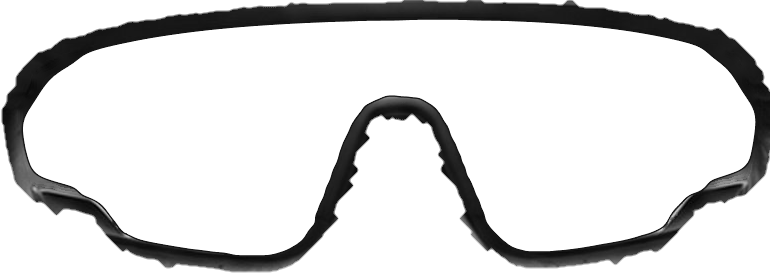
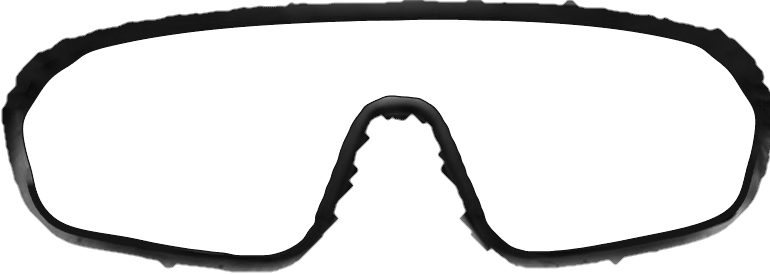
v1.548: The grey corner pads are gone from her visor: the film fills each corner, inside the frame's rim

Changed region(s): [[0.8104, 0.5839, 0.9974, 0.9343], [0.0, 0.6131, 0.187, 0.9343]]

diff --git a/manekas-picks.html b/manekas-picks.html
@@ -136,7 +136,10 @@ input,button,select,textarea{font-family:inherit;font-size:inherit;color:inherit
    under the frame (visor-mask.png), and the frame is laid back over it
    (visor-frame.png, the photograph's own frame with a fine dark lip on the
    curve), so the film ends on that clean line and nowhere else. */
-.mp-lens{position:absolute;z-index:2;left:35.1708%;top:30.4780%;width:29.8913%;height:12.9673%;overflow:hidden;isolation:isolate;opacity:0;transition:opacity .5s ease;
+.mp-lens{position:absolute;z-index:2;left:35.1708%;top:30.4780%;width:29.8913%;height:12.9673%;opacity:0;transition:opacity .5s ease}
+/* the glass: the film and its layers, through the film's mask; the frame
+   is its sibling in the same box, so the two land on the same pixels */
+.mp-lens__glass{position:absolute;inset:0;overflow:hidden;isolation:isolate;
   -webkit-mask-image:url("media/picks/visor-mask.png");mask-image:url("media/picks/visor-mask.png");
   -webkit-mask-size:100% 100%;mask-size:100% 100%;-webkit-mask-repeat:no-repeat;mask-repeat:no-repeat}
 .mp-room.has-still .mp-lens,.mp-room.is-playing .mp-lens{opacity:1}
@@ -155,8 +158,7 @@ input,button,select,textarea{font-family:inherit;font-size:inherit;color:inherit
 .mp-lens__shine{display:block;mix-blend-mode:screen}
 /* the frame, laid back over the film and the glass's rim, outside the
    film's mask: the film ends on its drawn edge, and no amber is left at it */
-.mp-frame{position:absolute;z-index:3;left:35.1708%;top:30.4780%;width:29.8913%;height:12.9673%;display:block;pointer-events:none;opacity:0;transition:opacity .5s ease}
-.mp-room.has-still .mp-frame,.mp-room.is-playing .mp-frame{opacity:1}
+.mp-lens__frame{position:absolute;inset:0;width:100%;height:100%;display:block;pointer-events:none}
 .mp-lens iframe{display:block;width:100%;height:100%;border:0;pointer-events:none}
 .mp-lensbtn{position:absolute;z-index:4;left:35.1708%;top:30.4780%;width:29.8913%;height:12.9673%;padding:0;border:0;background:transparent;border-radius:30%;cursor:pointer}
 .mp-lensbtn:focus-visible{outline:2px solid var(--ink);outline-offset:6px}
@@ -544,13 +546,15 @@ if (root.document && root.document.head) apply(read());
            bridge or the corner pads (owner, 10 Nov 2026: "the borders are
            bleeding", "draw perfectly clean boundaries"). -->
       <div class="mp-lens" id="mpLens">
-        <img class="mp-lens__still" alt="" data-lens-still>
-        <div class="mp-lens__film" id="mpFilm"></div>
-        <span class="mp-lens__tone" aria-hidden="true"></span>
-        <span class="mp-lens__grille" aria-hidden="true"></span>
-        <img class="mp-lens__shine" src="media/picks/visor-shine.png" alt="">
+        <div class="mp-lens__glass">
+          <img class="mp-lens__still" alt="" data-lens-still>
+          <div class="mp-lens__film" id="mpFilm"></div>
+          <span class="mp-lens__tone" aria-hidden="true"></span>
+          <span class="mp-lens__grille" aria-hidden="true"></span>
+          <img class="mp-lens__shine" src="media/picks/visor-shine.png" alt="">
+        </div>
+        <img class="mp-lens__frame" src="media/picks/visor-frame.png" alt="">
       </div>
-      <img class="mp-frame" src="media/picks/visor-frame.png" alt="" aria-hidden="true">
       <button class="mp-lensbtn" id="mpLensBtn" type="button" aria-label="Play the trailer of Test Subject V in her glasses"></button>
     </div>
   </figure>

diff --git a/test/manekas-picks.test.js b/test/manekas-picks.test.js
@@ -110,7 +110,7 @@ test('her photograph in the amber visor, whole, and the visor filled with the fi
   assert.match(html, /\.mp-room\{position:relative;width:100%;aspect-ratio:2576\/2113;/, 'the photograph at its own shape');
   const lens = doc.querySelector('#mpLens.mp-lens');
   for (const part of ['.mp-lens__still', '.mp-lens__film', '.mp-lens__tone', '.mp-lens__grille', '.mp-lens__shine']) assert.ok(lens.querySelector(part), part);
-  assert.match(html, /\.mp-lens\{[^}]*mask-image:url\("media\/picks\/visor-mask\.png"\)/, 'masked to the amber glass');
+  assert.match(html, /\.mp-lens__glass\{[^}]*mask-image:url\("media\/picks\/visor-mask\.png"\)/, 'masked to the glass');
   for (const f of ['visor-mask.png', 'visor-shine.png', 'visor-frame.png', 'portrait-visor.jpg']) assert.ok(fs.existsSync(path.join(ROOT, 'media/picks', f)), f);
   /* the visor box, in percent of the photograph: 906 to 1676 across, 644 to 918 down */
   const pct = (re) => Number(re.exec(html)[1]) / 100;
@@ -123,16 +123,13 @@ test('her photograph in the amber visor, whole, and the visor filled with the fi
     assert.equal(png.readUInt32BE(16), 770, f);
     assert.equal(png.readUInt32BE(20), 274, f);
   }
-  /* the frame laid back over the film, outside the film's mask and on the
-     same box, so the film ends on its drawn edge and no amber is left at it */
-  const frame = lens.nextElementSibling;
-  assert.equal(frame.className, 'mp-frame');
+  /* the frame laid back over the film: in the same box, outside the film's
+     mask, last, so the film ends on its drawn edge and no amber is left at it */
+  const frame = lens.lastElementChild;
+  assert.equal(frame.className, 'mp-lens__frame');
   assert.equal(frame.getAttribute('src'), 'media/picks/visor-frame.png');
-  for (const k of ['left', 'top', 'width', 'height']) {
-    assert.equal(new RegExp(`\\.mp-frame\\{[^}]*${k}:([\\d.]+)%`).exec(html)[1], new RegExp(`\\.mp-lens\\{[^}]*${k}:([\\d.]+)%`).exec(html)[1], k);
-  }
-  assert.match(html, /\.mp-frame\{[^}]*z-index:3;/);
-  assert.match(html, /\.mp-room\.has-still \.mp-frame,\.mp-room\.is-playing \.mp-frame\{opacity:1\}/);
+  assert.ok(lens.querySelector('.mp-lens__glass > .mp-lens__film'), 'the film is under the mask');
+  assert.ok(!frame.closest('.mp-lens__glass'), 'the frame is not');
   assert.match(read('scripts/build-visor-mask.py'), /assert not \(through\[~shadowed\] > 0\)\.any\(\), 'the film shows on the frame'/);
   /* the film covers the visor: 16:9 as wide as the box, centred down it */
   const filmH = pct(/\.mp-lens__film,\.mp-lens__still\{[^}]*height:([\d.]+)%/) * box.h;

diff --git a/index.html b/index.html
@@ -2,7 +2,7 @@
 <html lang="en" data-pfa-tabs>
 <head>
 <meta charset="utf-8">
-<meta name="pfa-build" content="v1.547">
+<meta name="pfa-build" content="v1.548">
 <title>People for Animals | India’s largest animal welfare organisation</title>
 <meta name="description" content="Report cruelty, find your nearest unit, read what the law actually says, or give. People for Animals turns moments of crisis into second chances for animals across the country.">
 <meta name="viewport" content="width=device-width, initial-scale=1, viewport-fit=cover">

diff --git a/scripts/build-visor-mask.py b/scripts/build-visor-mask.py
@@ -12,6 +12,11 @@ is no longer the mask's; it is the frame's own, as it is in the photograph:
      glass alone is amber: red well above blue, even where the frame's shadow
      makes it nearly black), kept to its one large piece with its holes filled,
      and its outline smoothed so it runs as the frame's inner edge does.
+  1b. The grey pads at the visor's lower outer corners are taken out ("this
+     section looks odd.. either remove that piece or fill that with video in
+     a seamless way"): the glass runs on into each corner, the frame's dark
+     rim is drawn round it, as thick as the bottom rim and carrying on into
+     it, and what was left of each pad's tip is healed into the skin.
   2. Then "draw perfectly clean boundaries and work from there": the outline
      becomes one closed curve, smoothed as a line (strongly along the top and
      round the ends, lightly round the nose bridge and the corner pads) and
@@ -100,7 +105,33 @@ inside &= ((xs_ >= lo[:, None] - 0.25) | ~ends_l) & ((xs_ <= hi[:, None] + 0.25)
 inside = nd.binary_opening(inside, iterations=1)
 lab, n = nd.label(inside)
 inside = lab == (np.argmax(nd.sum(inside, lab, range(1, n + 1))) + 1)
-# 2. the boundary, drawn: one closed curve along the frame's inner edge,
+# 1b. the corner pads taken out (owner, 10 Nov 2026: "this section looks
+#     odd.. either remove that piece or fill that with video in a seamless
+#     way"): each grey pad at the visor's lower outer corners becomes glass,
+#     up to the dark band that runs round it, which stays as the frame's rim
+#     and carries on into the rim along the bottom. Drawn by hand on the
+#     photograph, inside that band, and joined to the glass above it.
+from PIL import ImageDraw as _Draw
+PADS = [
+    # left: where the glass now ends, RIM pixels inside the pad's outer edge,
+    # running on from the glass's own side down round the pad's foot to the
+    # bottom rim; closed through the glass above
+    [(950, 806), (1072, 806), (1072, 887), (1045, 883), (1020, 879), (1000, 876), (980, 872),
+     (964, 866), (953, 857), (945, 845), (940, 831), (938, 818)],
+    # right, the same; both run on from the glass's own bottom edge, so the
+    # line has no step where the pad began
+    [(1520, 800), (1652, 800), (1651, 815), (1649, 828), (1645, 840), (1640, 849), (1630, 857),
+     (1615, 864), (1600, 869), (1580, 874), (1560, 878), (1540, 882), (1520, 885)],
+]
+RIM = 7  # the frame's rim drawn round where each pad was, as thick as the bottom rim
+pads = Image.new('L', (W, H), 0)
+for poly in PADS:
+    _Draw.Draw(pads).polygon(poly, fill=255)
+pads = nd.gaussian_filter((np.asarray(pads) > 0).astype(float), 2.5) >= 0.5   # no corners from the hand-drawn points
+pad_zone = nd.binary_dilation(pads, iterations=RIM)
+inside = nd.binary_fill_holes(inside | pads)
+
+
 #    smoothed as a line (not as pixels) and rendered at eight times the
 #    resolution, so its edge is exact to an eighth of a pixel
 from skimage import measure
@@ -126,7 +157,7 @@ def zone(where):
 
 
 bridge = zone((curve[:, 1] > 1210) & (curve[:, 1] < 1450) & (curve[:, 0] > 685))
-bottom = zone(curve[:, 0] > 790) * (1 - bridge)
+bottom = zone((curve[:, 0] > 790) & (curve[:, 1] > 1075) & (curve[:, 1] < 1505)) * (1 - bridge)
 curve = along(curve, 5) * bridge + along(curve, 10) * bottom + along(curve, 20) * (1 - bridge - bottom)
 x0, y0, x1, y1 = BOX
 
@@ -150,6 +181,8 @@ edge = render(curve)                       # how much of each pixel is glass
 shadowed = nd.binary_fill_holes(nd.binary_closing(((chroma >= 6) & roi) | glass, iterations=2))
 lab, n = nd.label(shadowed)
 shadowed = lab == lab[tuple(np.argwhere(glass)[0])]
+# where the pads were, the curve may run anywhere the drawn rim covers
+shadowed |= nd.binary_dilation(pad_zone, iterations=4)
 # where the smooth curve grazes the frame by a fraction of a pixel, the
 # frame wins: not one pixel of film is ever drawn on it
 edge = np.where(shadowed, edge, 0.0)
@@ -201,6 +234,33 @@ for sigma in (1.5, 3, 6, 12):
 colour = np.where(frame_px, luma, np.nan_to_num(fill, nan=float(np.median(luma[frame_px & cover]))))
 lip = render(curve, width=1.4)
 lip_tone = np.percentile(luma[frame_px & cover], 20)
+# where the pads were: the rim, in the frame's own dark, softened into the
+# skin over a pixel, so the frame runs on round the new corner unbroken
+rim_tone = float(np.median(luma[frame_px & cover & (np.arange(H)[:, None] > 870) & (np.arange(W)[None, :] > 1100) & (np.arange(W)[None, :] < 1500)]))
+# a band RIM pixels wide that follows the drawn curve, so its outer edge is
+# as smooth as the curve, fading out where the pad's place meets the frame
+out_dist = nd.distance_transform_edt(edge < 0.5)
+band = np.clip(RIM + 0.5 - out_dist, 0, 1)
+zone_w = np.clip(nd.gaussian_filter(nd.binary_dilation(pad_zone, iterations=RIM + 3).astype(float), 9) * 1.4 - 0.2, 0, 1)
+rim = band * zone_w * (edge < 1)
+# on the left the frame's side above the pad is mid grey, not black: the rim
+# fades in below it rather than running up it
+yy0, xx0 = np.mgrid[0:H, 0:W]
+rim *= np.where(xx0 < 965, np.clip((yy0 - 822) / 8.0, 0, 1), 1.0)
+# and what is left of each pad's tip past the rim (its outline, a bright
+# point) becomes skin again, filled from the skin around it
+yy_, xx_ = np.mgrid[0:H, 0:W]
+left_over = nd.binary_dilation(pad_zone, iterations=3) & (edge == 0) & ((out_dist > RIM - 0.5) | (rim < 0.98)) & (
+    ((xx_ < 962) & (yy_ > 806) & (yy_ < 860)) | ((xx_ > 1628) & (yy_ > 806) & (yy_ < 856)))
+skin = ~nd.binary_dilation(left_over, iterations=1) & (out_dist > RIM + 1) & ~nd.binary_dilation(pad_zone, iterations=1)
+skin_fill = np.full(luma.shape, np.nan)
+for sigma in (2, 4, 8):
+    num = nd.gaussian_filter(luma * skin, sigma)
+    den = nd.gaussian_filter(skin.astype(float), sigma)
+    skin_fill = np.where(np.isnan(skin_fill) & (den > 0.15), num / np.maximum(den, 1e-6), skin_fill)
+soft = np.clip(nd.gaussian_filter(left_over.astype(float), 1.0) * 1.5, 0, 1) * (1 - rim)
+colour = np.where(np.isnan(skin_fill), colour, colour * (1 - soft) + np.nan_to_num(skin_fill) * soft)
+colour = colour * (1 - rim) + rim_tone * rim
 colour = colour * (1 - lip) + lip_tone * lip
 # opaque over every pixel of glass or warmth outside the curve and a margin
 # round them, then fading out over neutral photograph, where it is the
@@ -235,6 +295,9 @@ v = luma[y0:y1, x0:x1]
 gin = edge[y0:y1, x0:x1] >= 0.5
 p60, p995 = np.percentile(v[gin], [60, 99.5])
 highlights = np.clip((v - p60) / (p995 - p60), 0, 1) ** 1.3
+# none from the pads that were taken out: their bright edges are not the glass's
+pad_soft = np.clip(nd.gaussian_filter(nd.binary_dilation(pad_zone, iterations=4).astype(float), 3)[y0:y1, x0:x1] * 1.5, 0, 1)
+highlights *= 1 - pad_soft
 hh, ww = v.shape
 yy = np.linspace(0, 1, hh)[:, None]
 xx = np.linspace(0, 1, ww)[None, :]

diff --git a/CHANGELOG.md b/CHANGELOG.md
@@ -1,3 +1,10 @@
+## v1.548
+
+- **The grey corner pads are gone from her visor: the film fills each corner, inside the frame's rim.** Owner, 10 Nov 2026: "this section looks odd.. either remove that piece or fill that with video in a seamless way. removing that part from both sides is easier I suppose".
+  - Both pads at the visor's lower outer corners are taken out. The glass runs on into each corner along a line drawn by hand on the photograph, continuing the glass's own bottom edge with no step, and the film fills it.
+  - Round the new corner, the frame's dark rim is drawn as thick as the bottom rim, following the curve exactly and fading into the photograph's own rim; what was left of each pad's tip is healed into the skin, and the pads' bright edges no longer show as reflections in the glass.
+  - The frame now sits in the same box as the film, beside its mask rather than under it, so the two land on the same pixels. Checked in a browser at 390, 768, 1024, 1440 and 1920 wide, retina too: on the frame, no film and no amber at all.
+
 ## v1.547
 
 - **The film in her visor ends on one clean line, with not a pixel of fringe.** Owner, 10 Nov 2026: "the borders are bleeding. can you fix to perfection", "there cannot be even a pixel of fringe/bleed", "draw perfectly clean boundaries and work from there".
